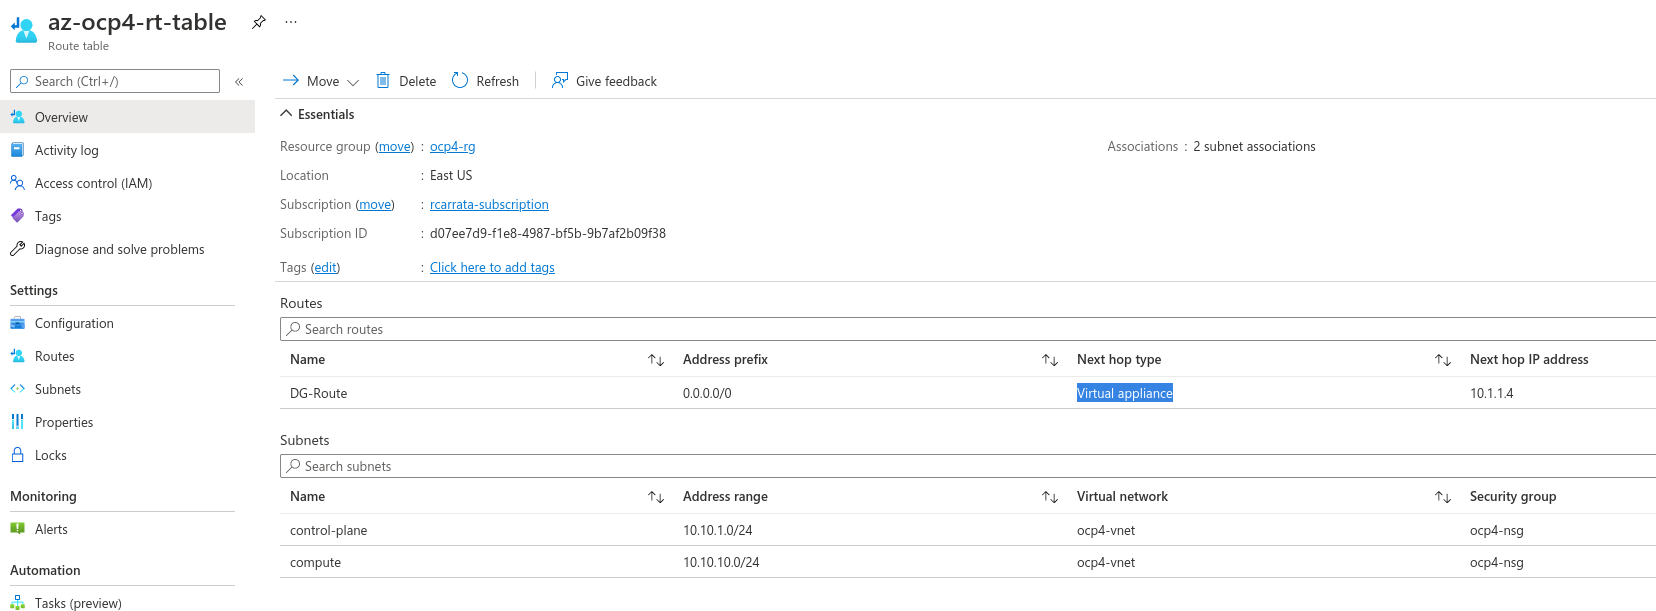
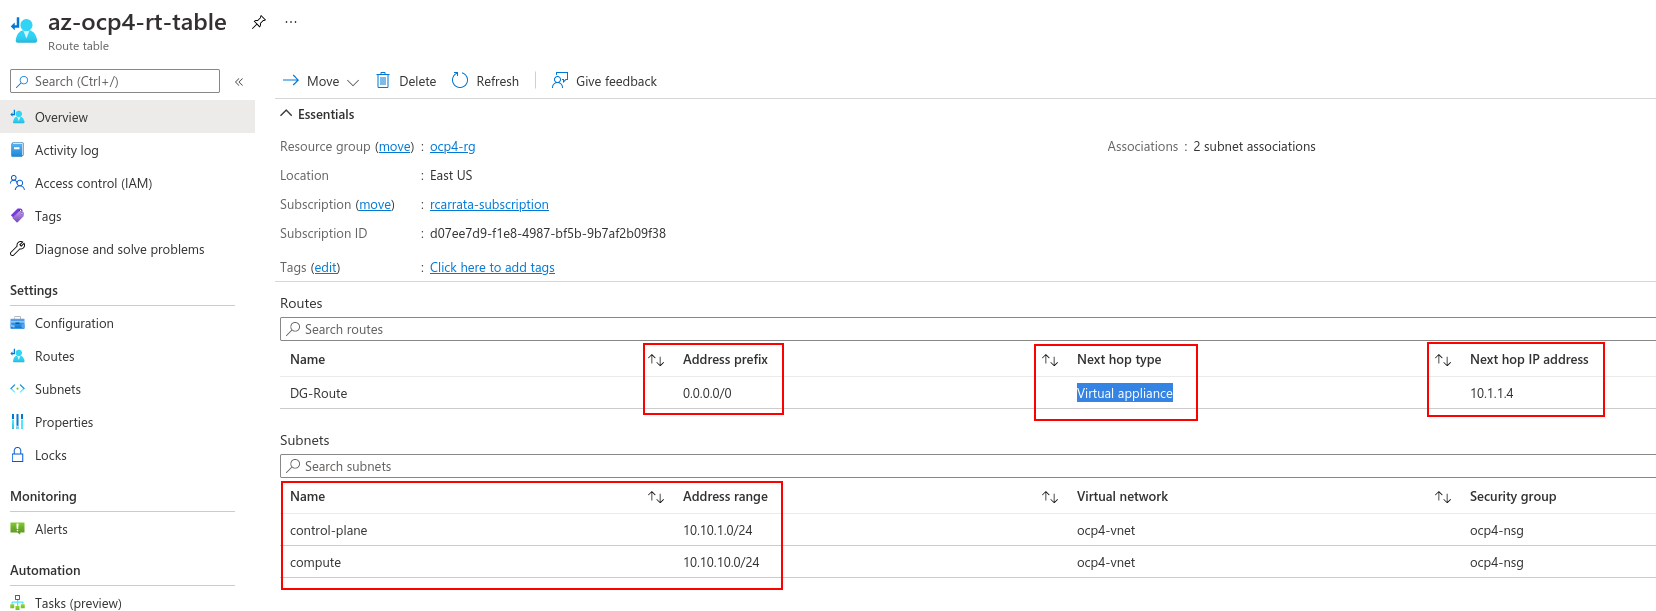
added more stuff

diff --git a/_posts/2022-03-30-ocp4-azure-ipi-private-2.md b/_posts/2022-03-30-ocp4-azure-ipi-private-2.md
@@ -1,9 +1,9 @@
 ---
 layout: post
 title: Secure your Private OpenShift clusters with Azure Firewall and Hub-Spoke architectures
-date: 2022-03-30
+date: 2022-04-23
 type: post
-published: false
+published: true
 status: publish
 categories:
 - OpenShift
@@ -75,6 +75,10 @@ We can divide this architecture in several parts:
 * User Define Routing and Azure Firewall
 * OpenShift Private Cluster outbound routing
 
+[![](/images/azurefw1.png "azurefw1.png")]({{site.url}}/images/azurefw1.png)
+
+Let's start to dig a bit deeper in all of this Azure resources needed for our architecture.
+
 ### 3.1 Azure Hub & Spoke Architecture
 
 The [Hub-Spoke topology in Azure](https://docs.microsoft.com/en-us/azure/architecture/reference-architectures/hybrid-networking/hub-spoke?tabs=cli) is a reference architecture provided by Microsoft:
@@ -89,15 +93,17 @@ NOTE: this diagram is extracted from the MSFT official documentation where this 
 
 * The **Virtual network peering** is also present allowing that two virtual networks can be connected using a peering connection. Peering connections are non-transitive, low latency connections between virtual networks. Once peered, the virtual networks exchange traffic by using the Azure backbone without the need for a router.
 
+[![](/images/azurefw0_3.png "azurefw0_3.png")]({{site.url}}/images/azurefw0_3.png)
+
 The Hub-Spoke topology in Azure is a recommended best practice architecture that have several benefits such as cost savings, overcoming limits and the most important workload isolation.
 
-In our case, we've used the Hub-Spoke architecture because we can control all the outbound traffic (and also inbound), and filter in fine grain which URLs, IPs are white or blacklisted or even filtered by certain origins from our OpenShift cluster. 
+In our case, we've used the Hub-Spoke architecture because we can control all the outbound traffic (and also inbound), and filter in fine grain which URLs, IPs are white or blacklisted or even filtered by certain origins from our OpenShift cluster.
 
 That adds much more flexibility to the Private OpenShift cluster deployment, adding more security and control to the ingress/egress traffic that comes from/to our OCP cluster.
 
 ### 3.2 Azure Firewall and OCP
 
-Azure Firewall is a cloud-native and intelligent network firewall security service that provides the best of breed threat protection for your cloud workloads running in Azure.
+[Azure Firewall](https://docs.microsoft.com/en-us/azure/firewall/overview) is a cloud-native and intelligent network firewall security service that provides the best of breed threat protection for your cloud workloads running in Azure.
 
 It's a fully stateful, firewall as a service with built-in high availability and unrestricted cloud scalability. It provides both east-west and north-south traffic inspection.
 
@@ -109,26 +115,276 @@ Another feature that we can benefit is the URL filtering, blacklisting certain U
 
 The Azure Firewall lives in their own Subnet, defined as Hub in the Hub-Spoke architecture that is detailed in the step before.
 
+[![](/images/azurefw0_4.png "azurefw0_4.png")]({{site.url}}/images/azurefw0_4.png)
+
 This allows that ALL the traffic to/from our cluster (or clusters) will go through our VNET - Azure Firewall because of the Route Tables that will be explained below.
 
 And on the other hand, imagine that instead of 1 cluster of OpenShift, you will deploy N OpenShift clusters that are private. With this architecture, you will have the possibility to deploy them as a Spokes in their own VNET / Subnets, having a proper architecture and control of your re^sources in Azure.
 
 ### 3.3 User Define Routing and Azure Firewall
 
-Imagine that we want to deploy our OpenShift cluster, how the worker and master nodes and the pods within the OpenShift cluster can communicate with Internet, passing though the Azure Firewall that controls all the outbound traffic that will be egressing the OpenShift cluster (in one of the Spokes) towards the Hub VPC network where the Azure Firewall is deployed. 
+Imagine that we want to deploy our OpenShift cluster, but how the worker and master nodes and the pods within the OpenShift cluster can communicate with Internet? They need to go though the Azure Firewall that controls all the outbound traffic that will be egressing the OpenShift cluster (in one of the Spokes) towards the Hub VPC network where the Azure Firewall is deployed.
 
 That's called User Define Routing or UDR and it's defined when we install the OpenShift cluster as we described in the first blog post [Deep dive in Private OpenShift 4 clusters deployments in Azure](https://rcarrata.com/openshift/ocp4-azure-ipi-private/).
 
-In Azure the route table already has a default 0.0.0.0/0 to Internet, but without a Public IP to SNAT just adding this route will not provide you egress. 
+In Azure the route table already has a default 0.0.0.0/0 to Internet, but without a Public IP to SNAT just adding this route will not provide you egress.
 
 We need to remember that when using an outbound type of UDR, a load balancer public IP address for inbound requests is not created unless a service of type loadbalancer is configured. A public IP address for outbound requests is never created by OpenShift installer if an outbound type of UDR is set, ensuring that no public endpoint it's generated in the VPC of our OpenShift cluster.
 
-In the this case, the Outbound type of UDR **requires that there is a Azure route for 0.0.0.0/0 and next hop destination of NVA (Network Virtual Appliance) in the route table**. 
+In this case, the Outbound type of UDR **requires that there is a Azure route for 0.0.0.0/0 and next hop destination of NVA (Network Virtual Appliance) in the route table**.
 
+For this reason we need to create a [couple of Route Table entries](https://github.com/rcarrata/ocp4-azure-ipi/blob/main/roles/ocp4-cloud-ipi/tasks/azure-infra-firewall.yml#L100) that will have **as next hop type the NVA (Network Virtual Appliance)** that in our case will be the virtual appliance aka Azure Firewall, that will have also defined the Azure route table and the next hop ip address of the Hub VNet of the Azure Firewall, forcing all the traffic that exits from the Spoke to go through this route, and therefore through the Azure Firewall to Internet:
 
+[![](/images/azurefw1_1.png "azurefw1_1.png")]({{site.url}}/images/azurefw1_1.png)
 
-For this reason we need to create a couple of Route Table entries that will have the next hop the NVA that in our case will be the
+We will need to create to different Azure route table entries for the subnets, one for the control-plane / masters and another for the computes / workers, making an association for the route tables to the subnets added, telling these subnets that will need to use this route table.
 
-[Deep Dive](https://github.com/rcarrata/ocp4-azure-ipi/blob/main/roles/ocp4-cloud-ipi/tasks/azure-infra-firewall.yml#L100)
+In a nutshell the following diagrams depicts the Azure Route Table that enables the User Defined Routing (UDR) that replaces the Azure Default Route that is present by default in each VPC:
 
+[![](/images/azurefw3.png "azurefw3.png")]({{site.url}}/images/azurefw3.png)
 
+As we can see we have the DG-Route that uses as Address Prefix the 0.0.0.0/0 (all traffic that egress the OCP Cluster), and as next hop the ip address (10.1.1.4) of the Azure FW Subnet (remember that it was 10.1.1.0/24 and it's within this range):
+
+[![](/images/azurefw5.png "azurefw5.png")]({{site.url}}/images/azurefw5.png)
+
+And finally we have a Public IP for the Azure Firewall, where we can expose our specific applications, and could be our ingress if we want to expose only AppA and not expose or our OCP console or our other apps within our cluster. Total flexibility and security right?
+
+[![](/images/azurefw7.png "azurefw7.png")]({{site.url}}/images/azurefw7.png)
+
+If you want to expand the information about the Azure networking part, check the [UDR and the Azure Networking guide](https://docs.microsoft.com/en-us/azure/virtual-network/virtual-networks-udr-overview#user-defined) and also the [Route traffic through NVAs by using custom settings](https://docs.microsoft.com/en-gb/azure/virtual-wan/scenario-route-through-nvas-custom) in the Azure site.
+
+### 3.4 Setup and configure Azure Firewall security
+
+Now that we have explained the networking specifics about the UDR and the networking egress, let's assume that our traffic it's within the Azure Firewall Subnet.
+
+What's are the specifics of the Azure Firewall?
+
+We used in this architecture an [Azure Firewall Standard](https://docs.microsoft.com/en-us/azure/firewall/features), because offers for this example the capabilities that are enough for this PoC, but if you need more features such as TLS inspection, IDPS, or Url filtering among others, you can select the [Azure Firewall Premium](https://docs.microsoft.com/en-us/azure/firewall/premium-features).
+
+For deploying the [Azure Firewall in our architecture](https://github.com/rcarrata/ocp4-azure-ipi/blob/main/roles/ocp4-cloud-ipi/tasks/azure-infra-firewall.yml#L66) we need to associate the Public IP, and also select the Firewall subnet where will be deployed, but because we're cool kids we're using Ansible to automate the whole process :D.
+
+[![](/images/azurefw8.png "azurefw8.png")]({{site.url}}/images/azurefw8.png)
+
+Now that we've deployed our cool Azure Firewall, let's secure our scenario a bit more: let's filter the URLs that our cluster can access using the Azure Firewall Rules.
+
+We can configure NAT rules, network rules, and applications rules on Azure Firewall using either classic rules or Firewall Policy. Azure Firewall denies all traffic by default, until rules are manually configured to allow traffic.
+
+Let's configure our Application Rules within the Azure Firewall Policy to define what URLs and websites are allowed (the rest will be denied, securing our network, Zero Trust Network principle :D):
+
+[![](/images/azurefw2.png "azurefw2.png")]({{site.url}}/images/azurefw2.png)
+
+Some of these are needed for the installation of the OpenShift cluster like quay.io / openshift.com, and also the *azure.com or*microsoftonline.com for performing the API call towards the Azure API (for example by the Machine Config Operator to generate more machines though MachineSets):
+
+[![](/images/azurefw9.png "azurefw9.png")]({{site.url}}/images/azurefw9.png)
+
+But also we allowed others useful sites like the dockerhub, or the Google Services that could be useful for our pods within the Cluster to be reachable.
+
+But all other traffic is denied, because our pod don't need to go to our favorite sports website or ... a hacker website, or to grab some dangerous rootkit or malware, right?
+
+### 3.5 Automating deployment of the OpenShift cluster using Azure Firewall as Outbound traffic
+
+Now that we defined and explained all the resources that we will have in the architecture, we need to deploy our architecture and then our OpenShift cluster within.
+
+First we need to deploy the VPC and Subnets, then the Firewall and the Route Tables, and all that we explained before.
+
+Then we need to deploy our bastion, and finally deploy our cluster of OpenShift using all the Azure resources that we needed as prerequisites.
+
+We need to deploy all of this things, manually? No, let's use Ansible for that!
+
+1. Clone the repository where the ocp4 azure ipi demo is stored:
+
+```sh
+git clone https://github.com/rcarrata/ocp4-azure-ipi.git
+cd ocp4-azure-ipi
+```
+
+2. Install Azure CLI:
+
+```sh
+sudo rpm --import https://packages.microsoft.com/keys/microsoft.asc
+
+echo -e "[azure-cli]
+name=Azure CLI
+baseurl=https://packages.microsoft.com/yumrepos/azure-cli
+enabled=1
+gpgcheck=1
+gpgkey=https://packages.microsoft.com/keys/microsoft.asc" | sudo tee /etc/yum.repos.d/azure-cli.repo
+
+sudo dnf install azure-cli
+
+az login
+```
+
+3. Fill and create the Azure Creds for the Service Principal inherit by the Openshift Installer:
+
+```sh
+cat ~/.azure/osServicePrincipal.json
+{"subscriptionId":"xxxx","clientId":"xxxx","clientSecret":"xxxx","tenantId":"xxxx"}
+```
+
+4. Install Ansible and Azure Cli dependencies:
+
+```sh
+pip install virtualenv
+virtualenv ansible-210
+source ansible-210/bin/activate
+pip install ansible==2.10
+pip install selinux
+ansible-galaxy collection install azure.azcollection
+pip install -r ~/.ansible/collections/ansible_collections/azure/azcollection/requirements-azure.txt
+```
+
+5. Add the vault directory and the vault yaml and generate a Vault-File with the credentials of Azure and OCP4 PullSecret:
+
+```sh
+ansible-vault edit vault/azure.yml
+```
+
+6. Fill inside the vault.yml with:
+
+```sh
+azure_subscription_id: SECRET
+azure_client_id: SECRET
+azure_secret: SECRET
+azure_tenant: SECRET
+ocp4_pull_secret: '<<< pull_secret_azure >>>'
+```
+
+7. For obtain the pull_secret go to [OCP4 Install](https://cloud.redhat.com/openshift/install)
+
+8. Generate the .vault-password-file and put the password:
+
+```
+touch .vault-password-file
+echo "yourpasswordfancy" >> .vault-password-file
+```
+
+9. Install Openshift with Azure Firewall as the Egress Outbound:
+
+```sh
+ansible-playbook install-private.yml -e "egress=firewall" --vault-password-file .vault-file-password
+```
+
+## 3.6 Checking the Egress from the OpenShift cluster through Azure Firewall
+
+Let's check the egress traffic from the OpenShift cluster through the Azure Firewall, and we will see if the Azure Firewall is securing and filtering the outbound traffic from our pods within our OCP cluster.
+
+* From the Bastion host, export the kubeconfig of the brand new cluster:
+
+```md
+[root@bastion ~] ssh -D 9000 <<public_bastion_ip>> -l az-admin -i vault/ssh-key
+
+[root@bastion ~] export KUBECONFIG=ocp4/auth/kubeconfig
+```md
+
+* We will select one of the pods that is deployed in the cluster (the console pod, but could be another totally random):
+
+```md
+[root@bastion ~] ./ocp4/kubectl get pod -n openshift-console -l app=console --no-headers | awk '{ print $1 }' | head -n1
+```
+
+* Let's connect to the pod of the console to perform the connectivity checks:
+
+```md
+[root@bastion ~] CONSOLE_POD=$(./ocp4/kubectl get pod -n openshift-console -l app=console --no-headers | awk '{ print $1 }' | head -n1)
+
+[root@bastion ~] ./ocp4/kubectl -n openshift-console exec $CONSOLE_POD -ti -- bash
+bash-4.4$ 
+
+* Check the connectivity from the pod to the Google website that is allowed in the Azure Firewall:  
+
+```md
+bash-4.4$ curl www.google.com -I
+HTTP/1.1 200 OK
+```
+
+as we can see the connectivity it's ok.
+
+* Check the connectivity from the pod to the Red Hat website, also allowed in the Azure Firewall:
+
+```md
+bash-4.4$ curl www.redhat.com -Iv
+
+* Rebuilt URL to: www.redhat.com/
+* Trying 23.73.225.160...
+* TCP_NODELAY set
+* Connected to www.redhat.com (23.73.225.160) port 80 (#0)
+
+> HEAD / HTTP/1.1
+> Host: www.redhat.com
+> User-Agent: curl/7.61.1
+> Accept: */*
+```
+
+* On the other hand, also check the OpenShift docs from the pod:
+
+```md
+bash-4.4$ curl https://docs.openshift.com -I
+HTTP/1.1 200 Connection established
+HTTP/2 200
+```
+
+* Then we check one website that is not explicitly allowed in the Azure Firewall (wikipedia website):
+
+```md
+bash-4.4$ curl www.wikipedia.com
+Action: Deny. Reason: No rule matched. Proceeding with default action.
+
+bash-4.4$ curl www.wikipedia.com -I
+HTTP/1.1 470 status code 470
+```
+
+as we can see it's denied, as the reason it's the rule not matched by the Azure Firewall.
+
+* Finally we can check another website that is not allowed in the Firewall rules:
+
+```md
+bash-4.4$ curl www.bbc.co.uk
+Action: Deny. Reason: No rule matched. Proceeding with default action.
+
+bash-4.4$ curl www.bbc.co.uk -I
+HTTP/1.1 470 status code 470
+
+bash-4.4$ curl https://www.bbc.co.uk
+curl: (35) OpenSSL SSL_connect: SSL_ERROR_SYSCALL in connection to www.bbc.co.uk:443
+```
+
+## 4. Connecting to our private cluster from the Internet
+
+Now that we have deploy the cluster, how we can access to the console that it's not exposed neither in the Azure Firewall?
+
+As we discussed in the previous blog post, there are several options, like having a VPN Gateway, an Express Route or even deploying a VM and use Azure Bastion to connecting from there to the Bastion.
+
+But there is a very simple, cost-effective way to do that, use the Bastion for enable a [Proxy Socks5](https://en.wikipedia.org/wiki/SOCKS) ssh connection.
+
+A SOCKS proxy is an SSH encrypted tunnel in which configured applications forward their traffic down, and then, on the server-end, the proxy forwards the traffic to the general Internet.
+
+Unlike a VPN, a SOCKS proxy has to be configured on an app-by-app basis on the client machine, but we can set up apps without any specialty client software as long as the app is capable of using a SOCKS proxy. On the server-side, all you need to configure is SSH.
+
+Let's do try it!
+
+* Connect to the bastion using the private key generated
+
+```md
+ssh -i vault/ssh-key  -D 9000 az-admin@xx.xx.xx.xx
+Activate the web console with: systemctl enable --now cockpit.socket
+[az-admin@bastion ~]$ sudo -i
+```
+
+* And then connect using the Proxy Socks with the DNS option enabled. An example with Firefox is:
+
+[![](/images/azureipi14.png "azureipi14.png")]({{site.url}}/images/azureipi14.png)
+
+as you can check the SOCKSv5 needs to be enabled, we used here the port 9000.
+
+And then the most important check is the "Proxy DNS when using SOCKSv5" option. This option will redirect and resolve all the requests from our browser through the Proxy socks SSH tunnel, reaching the Azure DNS private records, and then resolving our OpenShift Console.
+
+* Now if we use our regular ocp console url in our browser, we will see the OpenShift console without need of setting an expensive VPN or ExpressRoute.
+
+[![](/images/azureipi15.png "azureipi15.png")]({{site.url}}/images/azureipi15.png)
+
+But remember that it's only for testing purpose, once the ssh connection is closed, or if the VM suffers any issue, this method is also unavailable.
+
+So with that we finished the second part of this blog around "Secure your Private OpenShift clusters with Azure Firewall and Hub-Spoke architectures".
+
+Happy OpenShifting!

diff --git a/about/index.md b/about/index.md
@@ -7,11 +7,11 @@ comments: false
 share: false
 ---
 
-## EMEA Senior Specialist Solutions Architect at Red Hat
+## EMEA Senior Technical Sales Black Belt at Red Hat
 
 I'm Roberto Carratalá, an IT professional with more than ten years of experience in the industry of Linux, Virtualization, Cloud, DevOps and Kubernetes/OpenShift.
 
-Currently I am working as a Senior Specialist Solutions Architect for Red Hat, helping the customers to achieve their goals and objectives with linux, cloud and containers in public and private environments.
+Currently I am working as a Senior Technical Sales Black Belt for Red Hat, focused in OpenShift Cloud Services, helping the customers to achieve their goals and objectives with linux, cloud and containers in public and private environments.
 
 Although I work for Red Hat I still consider myself a Linux Geek and a Unix fanboy, always searching for new tech to learn and try!
 
